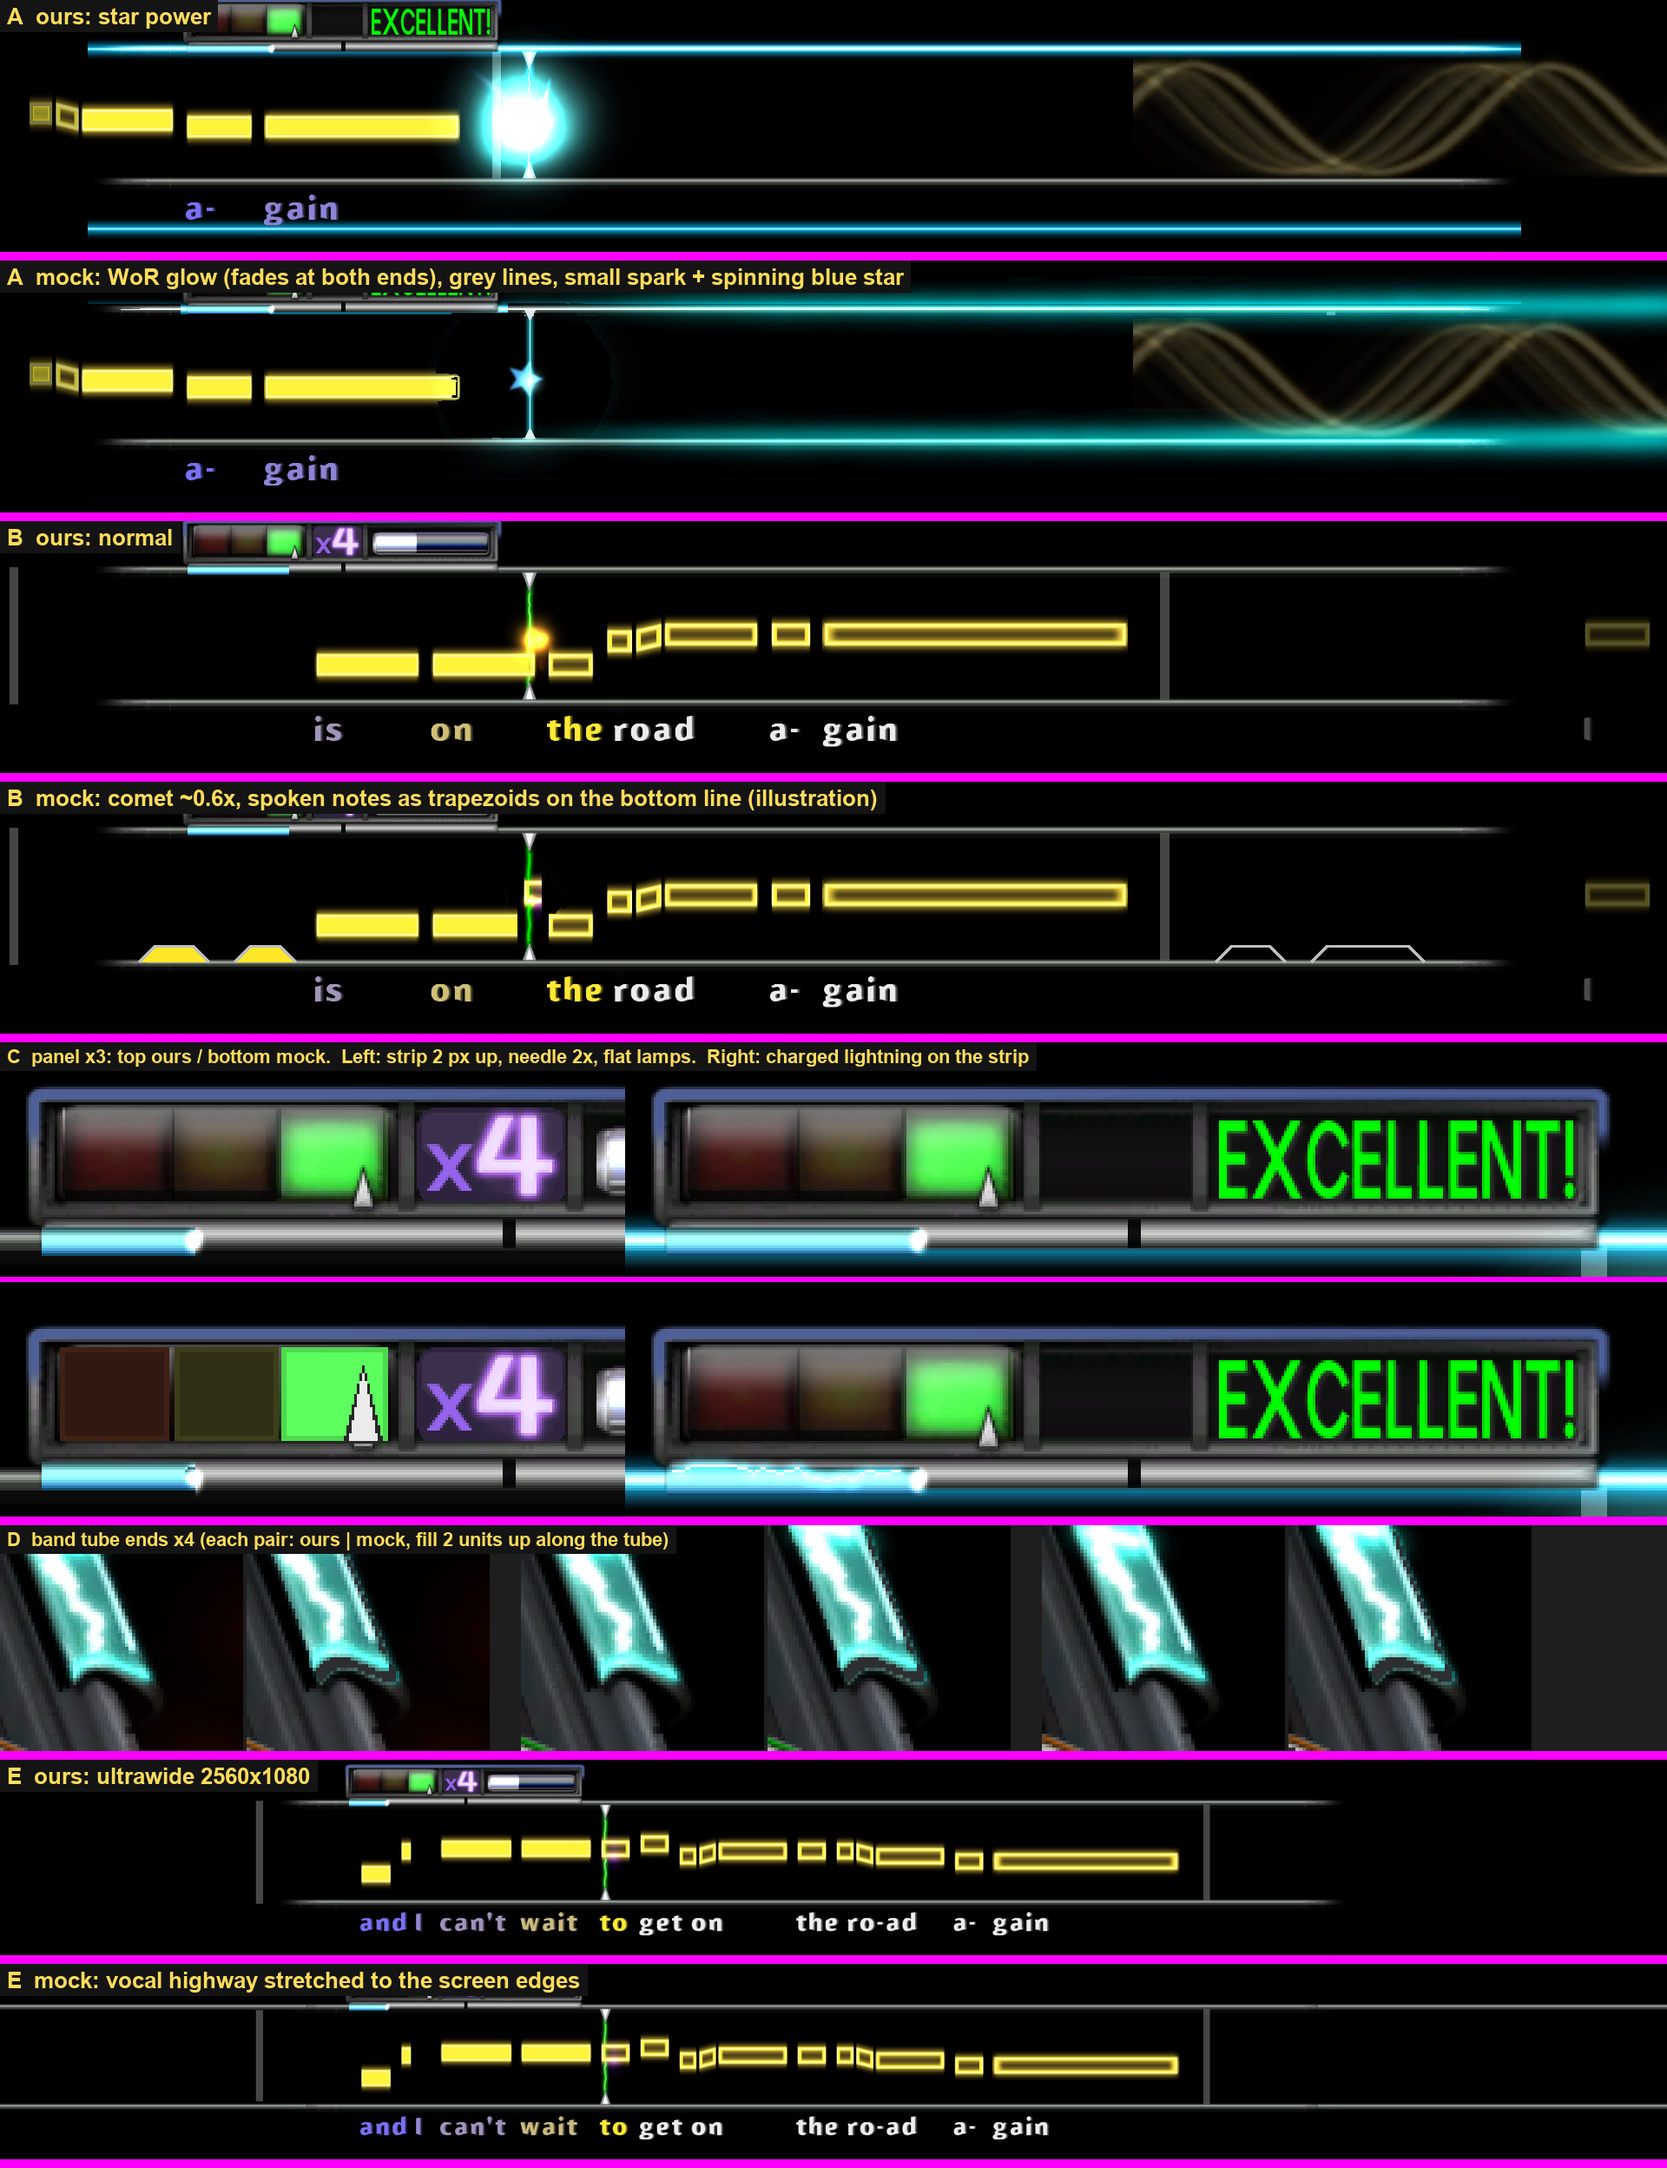
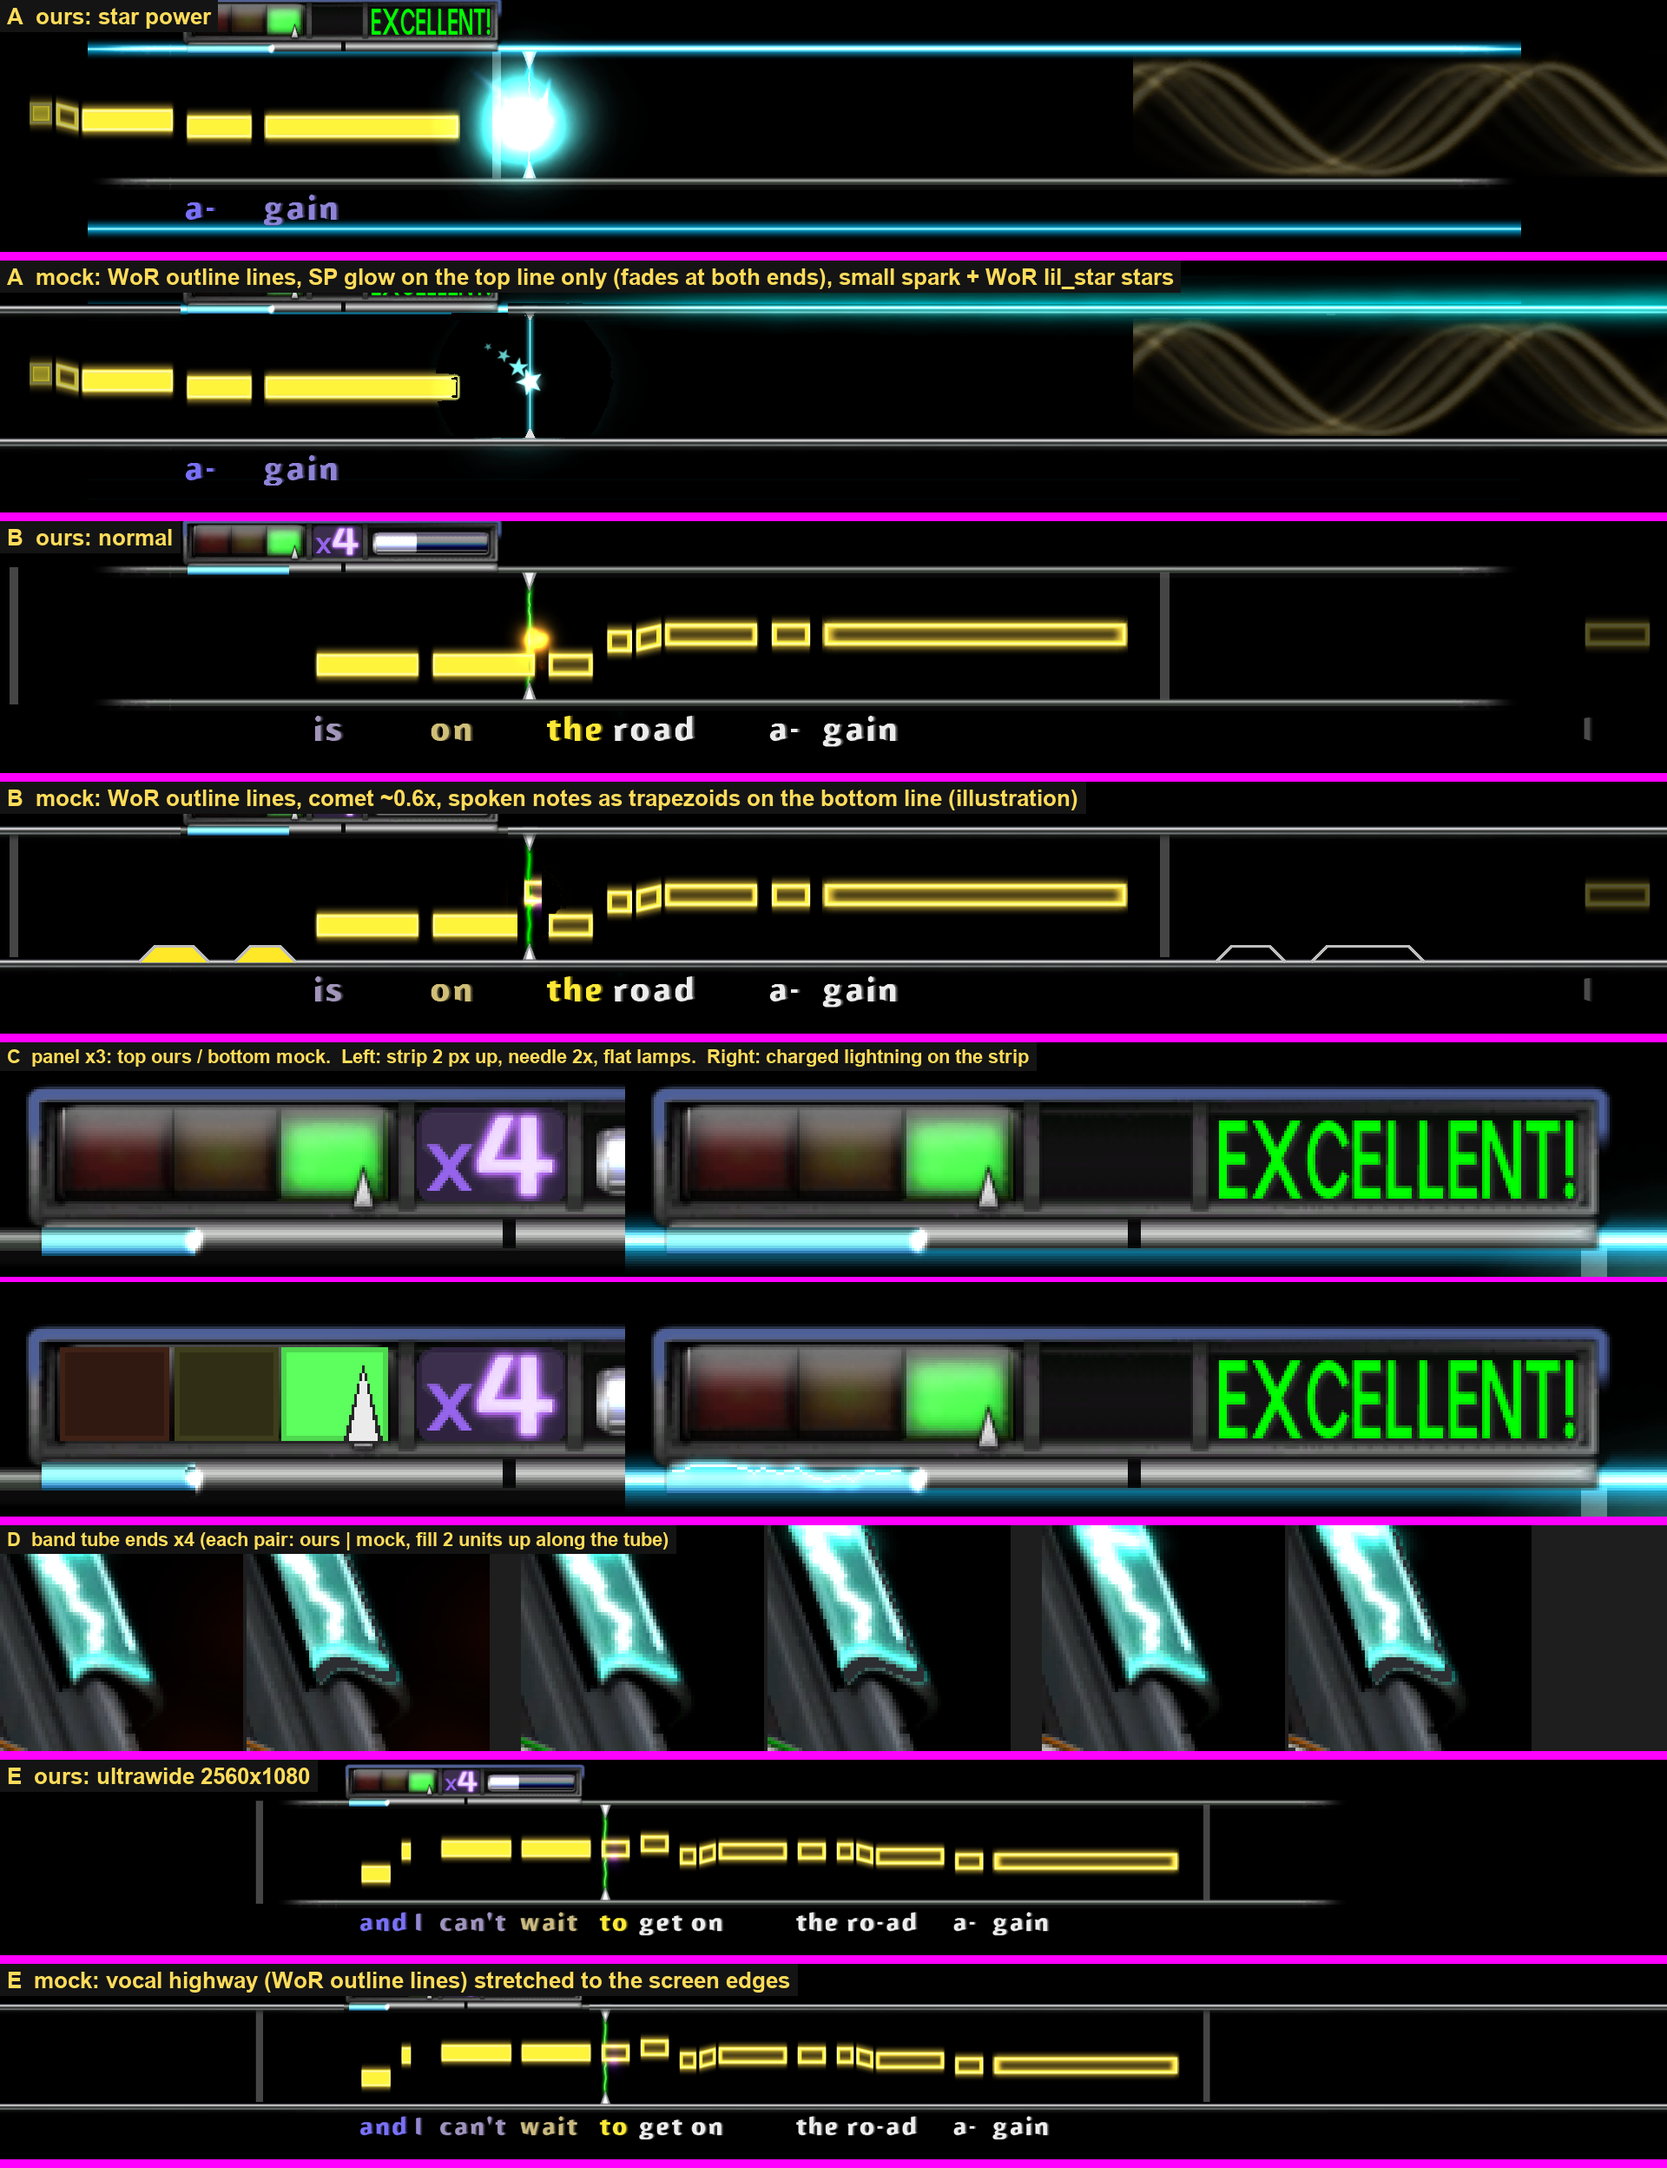
Mock v1 rev: WoR outline lines, SP glow on the top line only, WoR lil_star particles

diff --git a/tools/mock_vocal_wor_v1.py b/tools/mock_vocal_wor_v1.py
@@ -103,6 +103,40 @@ def clean_nowline(src, tint):
     return col
 
 
+OUTLINE = r'E:\Dev\ghwt\ghwor-extract\z_in_game_png2\outline.png'
+LIL_STAR = os.path.join(GEMS, '45c726d2.png')      # re-decoded 2026-11-10 (the first extraction read its size as 0)
+
+
+def wor_lines(m, x0, x1, skip=()):
+    """our two lines -> WoR's `outline` texture (64 x 16, 16 units tall: bright row 2, thin second line row 6, shadow
+    below), stretched from x0 to x1 like WoR's 1280-wide top_outline_middle / bottom_outline_middle"""
+    px = m.load()
+    grey = lambda p: abs(p[0] - p[1]) < 24 and abs(p[1] - p[2]) < 24
+    tex = Image.open(OUTLINE).convert('RGBA').resize((x1 - x0, int(16 * U)), Image.BILINEAR)
+    for yl in (TOP_Y, BOT_Y):
+        for y in range(yl - 5, yl + 7):
+            for x in range(x0, x1):
+                if (any(a <= x < b for a, b in skip) and yl == TOP_Y) or abs(x - NOW_X) < 9:   # panel, arrowheads
+                    continue
+                if grey(px[x, y]):
+                    px[x, y] = (0, 0, 0)
+        top = int(yl - 2.5 * U)
+        layer = Image.new('RGBA', m.size, (0, 0, 0, 0))
+        layer.paste(tex, (x0, top))
+        if yl == TOP_Y:
+            for a, b in skip:
+                layer.paste((0, 0, 0, 0), (a, top, b, top + tex.height))
+        m.paste(Image.alpha_composite(m.convert('RGBA'), layer).convert('RGB'))
+    return m
+
+
+def lil_star(size_px, rot, rgb, k=1.0):
+    st = Image.open(LIL_STAR).convert('RGBA').resize((size_px, size_px), Image.BILINEAR).rotate(rot, Image.BILINEAR)
+    a = st.split()[3]
+    col = Image.new('RGB', st.size, tuple(min(255, int(v * k)) for v in rgb))
+    return Image.composite(col, Image.new('RGB', st.size), a)
+
+
 # ---- A: star power
 def row_a():
     ours = frame('t105')
@@ -141,15 +175,19 @@ def row_a():
     dm.polygon([(NOW_X - 6, TOP_Y + 3), (NOW_X + 6, TOP_Y + 3), (NOW_X, TOP_Y + 15)], fill=(225, 225, 225))
     dm.polygon([(NOW_X - 6, BOT_Y - 3), (NOW_X + 6, BOT_Y - 3), (NOW_X, BOT_Y - 15)], fill=(225, 225, 225))
     px = m.load()
-    # WoR glow on both lines: centre 200 units right of the highway centre (canvas 640 + 200 -> our root offset)
+    m = wor_lines(m, 320, 2240, skip=((528, 905),))
+    # WoR glow on the TOP line only (user 2026-11-10): centre 200 units right of the highway centre
     xc = 320 + (640 + 200 + 113) * U        # WoR root 288..1218 (centre 753) + 200 = 953
-    for y in (TOP_Y, BOT_Y):
-        layer, y0 = glow_strip(1920, 320, xc, y, gain=0.85)
-        paste_add(m, layer, (320, y0))
-    # comet in star power: small cyan spark + the spinning blue star
+    layer, y0 = glow_strip(1920, 320, xc, TOP_Y, gain=0.85)
+    paste_add(m, layer, (320, y0))
+    # comet in star power: small cyan spark + WoR's lil_star particles (64,128,128, scale 0.35 -> 0, life 1 s,
+    # rotation +-500 deg/s, drifting up): the newest at the comet, older ones smaller and dimmer
     cy = 179
     paste_add(m, radial(80, 7.0, (150, 255, 255), 1.0), (NOW_X - 40, cy - 40))
-    paste_add(m, star(80, 21, 9, 18, (80, 170, 235)), (NOW_X - 40 - 6, cy - 40 - 3))
+    for i, (dx, dy, s, rot) in enumerate(((0, 0, 1.0, 18), (-14, -16, 0.75, 140), (-30, -30, 0.5, 260), (-48, -40, 0.3, 30))):
+        size = max(6, int(34 * s))
+        st = lil_star(size, rot, (64, 128, 128), k=2.0 * s + 0.6)
+        paste_add(m, st, (NOW_X + dx - size // 2, cy + dy - size // 2))
     return ours.crop(HW), m.crop(HW)
 
 
@@ -185,6 +223,7 @@ def row_b():
     m.paste(clean_nowline(clean, (0.0, 1.0, 0.0)), (NOW_X - 14, TOP_Y - 6))
     cy = 177
     paste_add(m, radial(40, 4.2, (255, 235, 70), 1.25), (NOW_X - 20, cy - 20))
+    m = wor_lines(m, 320, 2240, skip=((528, 905),))
     # spoken notes (illustration: this song has none): two sung (left of the line), two coming
     h = int(12 * U)
     layer = Image.new('RGBA', m.size, (0, 0, 0, 0))
@@ -284,10 +323,7 @@ def row_e():
     o = frame('t165')
     m = o.copy()
     # lines: copy a clean line profile to the screen edges
-    for (y0, y1) in ((88, 101), (241, 254)):
-        prof = o.crop((1500, y0, 1501, y1))
-        for x in list(range(0, 470)) + list(range(2024, 2560)):
-            m.paste(prof, (x, y0))
+    m = wor_lines(m, 0, 2560, skip=((528, 905),))
     return o, m
 
 
@@ -306,9 +342,9 @@ def main():
     W = 1920
     rows = []
     a0, a1 = row_a()
-    rows += [label(a0, 'A  ours: star power'), label(a1, 'A  mock: WoR glow (fades at both ends), grey lines, small spark + spinning blue star')]
+    rows += [label(a0, 'A  ours: star power'), label(a1, 'A  mock: WoR outline lines, SP glow on the top line only (fades at both ends), small spark + WoR lil_star stars')]
     b0, b1 = row_b()
-    rows += [label(b0, 'B  ours: normal'), label(b1, 'B  mock: comet ~0.6x, spoken notes as trapezoids on the bottom line (illustration)')]
+    rows += [label(b0, 'B  ours: normal'), label(b1, 'B  mock: WoR outline lines, comet ~0.6x, spoken notes as trapezoids on the bottom line (illustration)')]
     # C: panels x3 side by side
     c = row_c()
     tiles = []
@@ -339,7 +375,7 @@ def main():
     e0, e1 = row_e()
     e0 = e0.crop((0, 30, 2560, 330)).resize((W, 225))
     e1 = e1.crop((0, 30, 2560, 330)).resize((W, 225))
-    rows += [label(e0, 'E  ours: ultrawide 2560x1080'), label(e1, 'E  mock: vocal highway stretched to the screen edges')]
+    rows += [label(e0, 'E  ours: ultrawide 2560x1080'), label(e1, 'E  mock: vocal highway (WoR outline lines) stretched to the screen edges')]
     H = sum(r.height + 10 for r in rows)
     sheet = Image.new('RGB', (W, H), (255, 0, 255))
     y = 0
